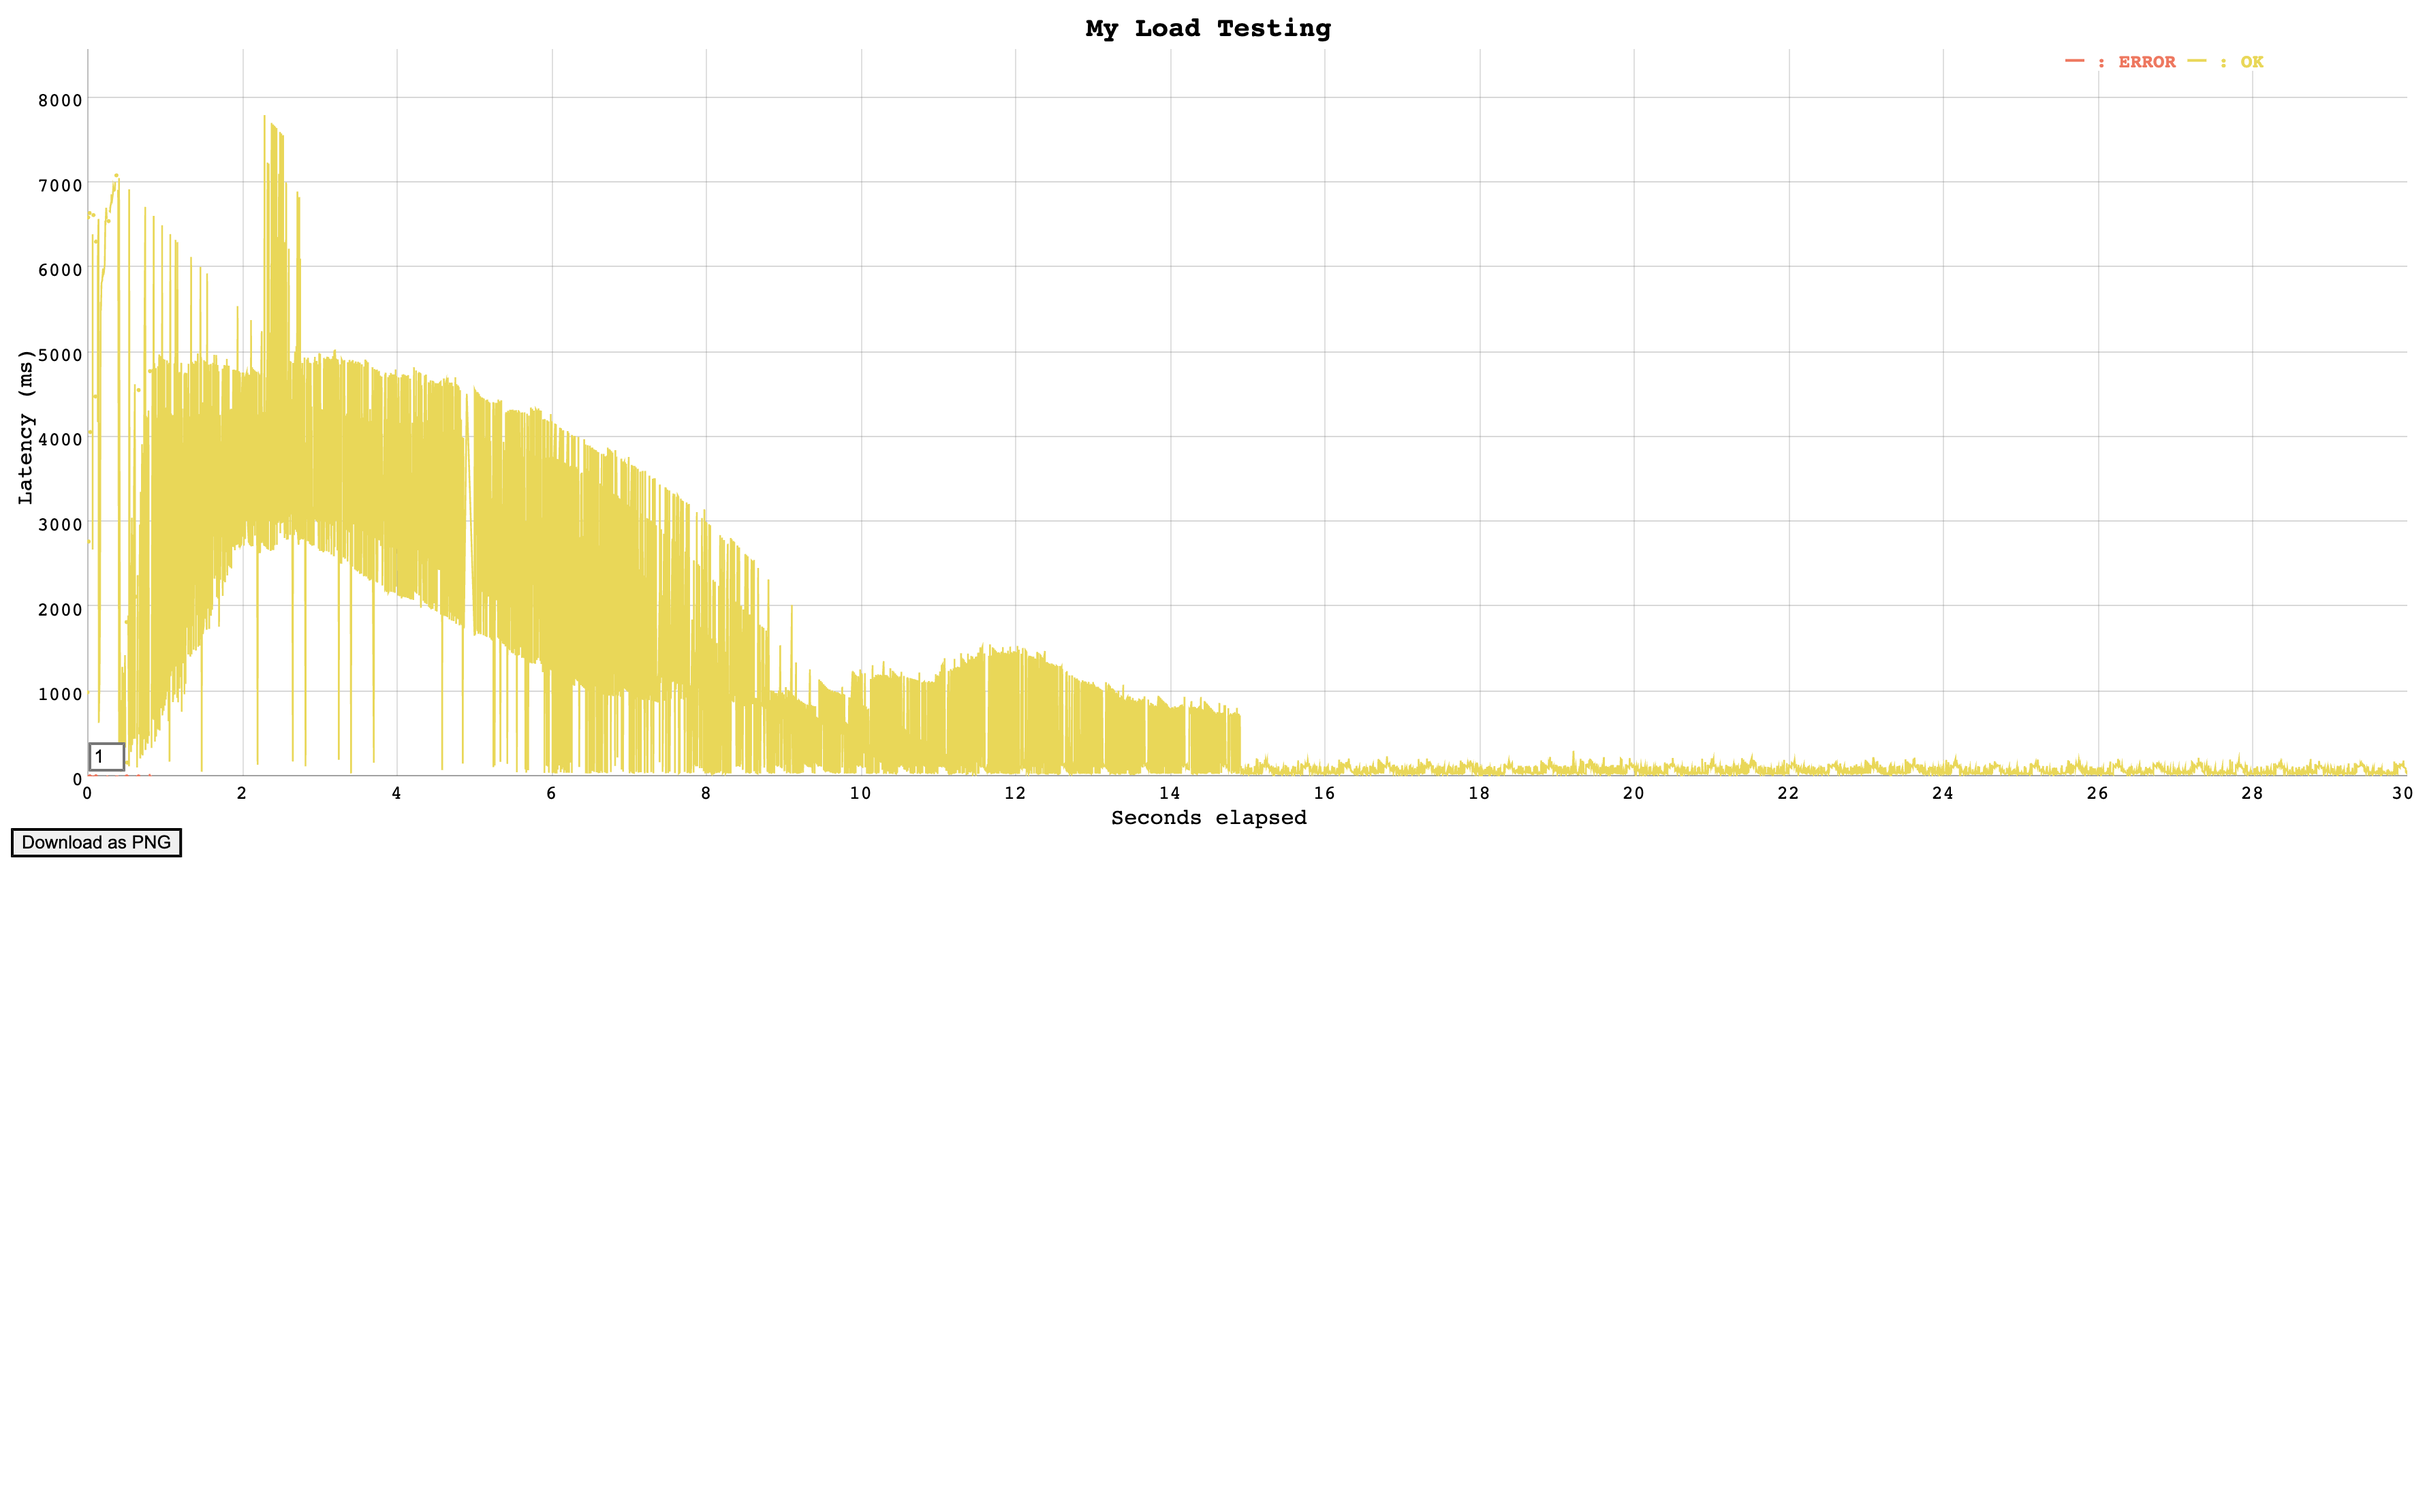
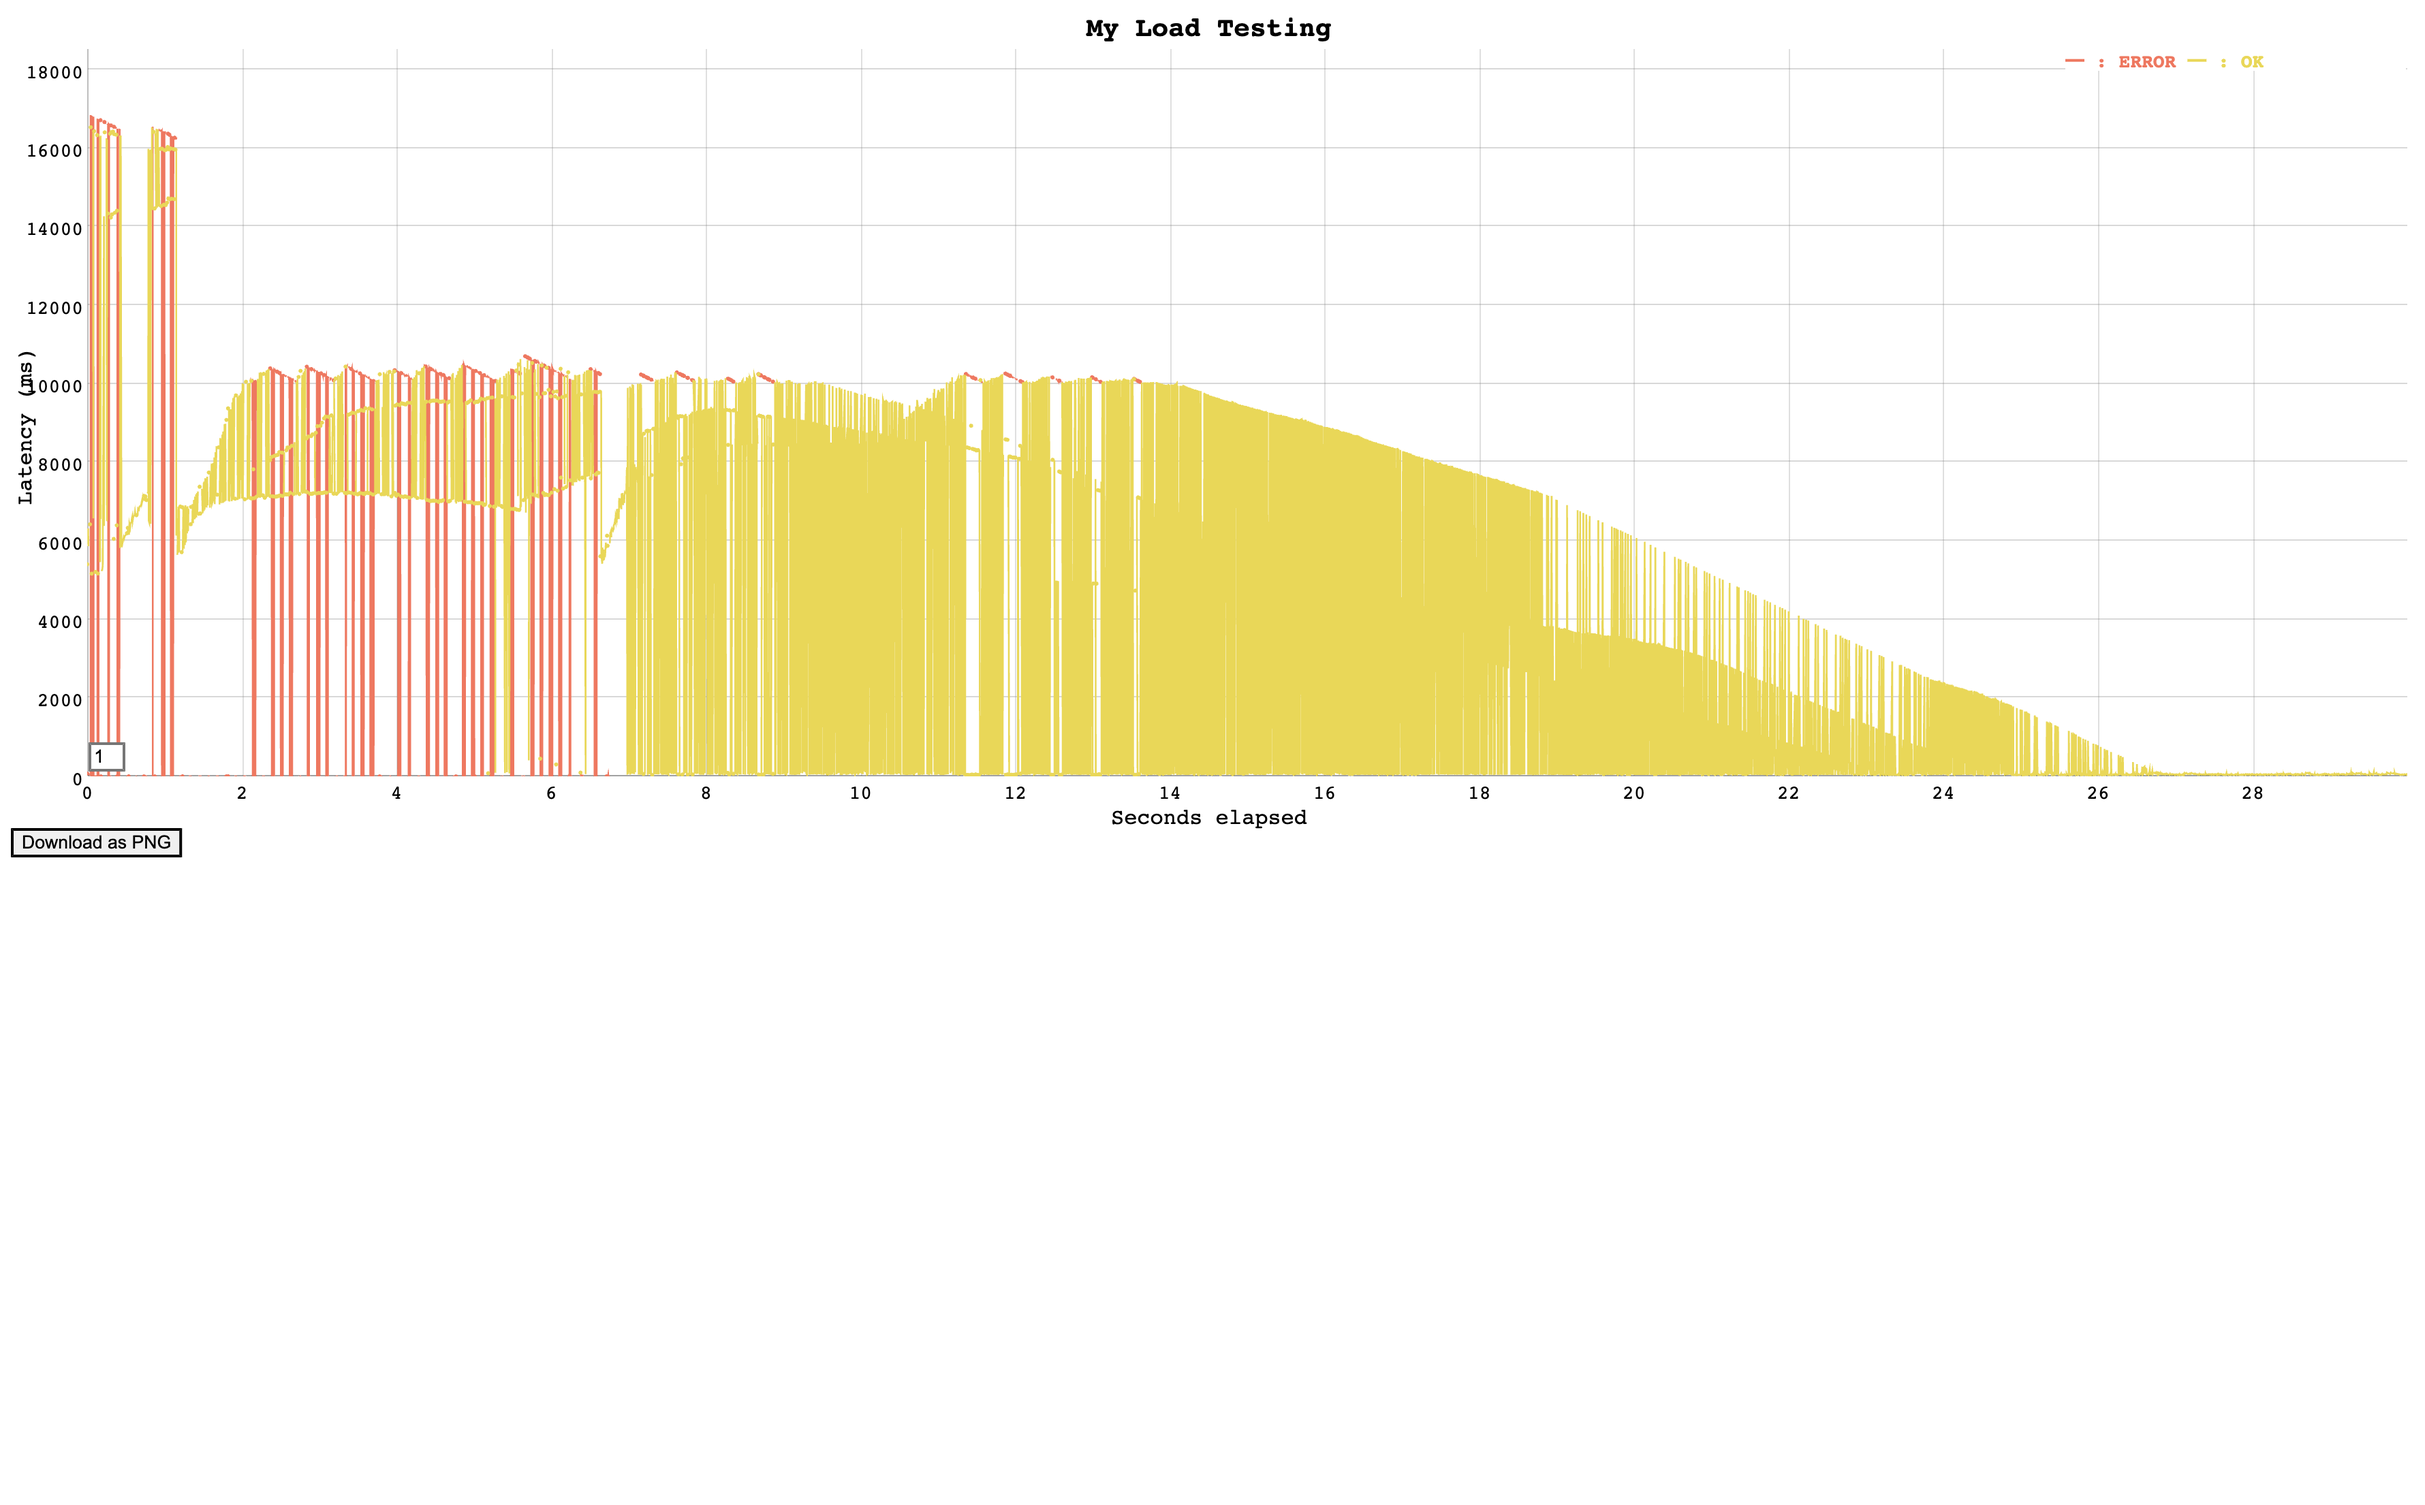
almost finish lab

Changed region(s): [[0.0, 0.0624, 0.9978, 0.5308]]

diff --git a/Labo04/003_DataStorePeformances.md b/Labo04/003_DataStorePeformances.md
@@ -47,24 +47,40 @@ Deliverables:
 - For each performance test, write the command used to generate the attack with vegeta and copy the file generated by the vegeta plot command.
 
   ```
-  //TODO command used
+  HelloWorld servlet
+  printf "GET https://20240425t154316-dot-rising-hallway-420714.ew.r.appspot.com/hello" > target.list
+  vegeta attack -duration=30s -rate=1000 -targets=target.list | tee results-hello.bin | vegeta report
+  cat results-hello.bin | vegeta plot --title="My Load Testing" > loadtest-hello.html
   ```
-
+  ![](vegeta-plot-hello.png)
   ```
-  //TODO copy/link file generated by vegeta plot command
+  Datawriter servlet
+  printf printf "GET https://20240425t154316-dot-rising-hallway-420714.ew.r.appspot.com/datastorewrite?_kind=book&author=Gwen&title=Guillaume" > target.list
+  vegeta attack -duration=30s -rate=1000 -targets=target.list | tee results-write.bin | vegeta report
+  cat results-write.bin | vegeta plot --title="My Load Testing" > loadtest-write.html
   ```
+  ![](vegeta-plot-write.png)
  
 - What response times do you observe for each Servlet?
 
   ```
-  //TODO
+  HelloWorld servlet
+  Latencies     [min, mean, 50, 90, 95, 99, max]  33.459µs, 4.107s, 2.599s, 9.956s, 10.205s, 15.799s, 16.834s
+
+  Datawriter servlet
+  Latencies     [min, mean, 50, 90, 95, 99, max]  28.542µs, 7.873s, 10.053s, 10.327s, 10.404s, 10.569s, 17.585s
+
   ```
 
 - Compare the response times shown by vegeta with the App Engine
   console. Explain the difference.
 
   ```
-  //TODO
+  Google App Engine latency
+  HelloWorld servlet -> avg 4214,174 ms (4,214s)
+  Datawriter servlet -> avg 8267.462 ms (8.267s)
+
+  As a small comparaison we could say that the avarage latency is quit similar wheter it comes from Vegeta or from Google Cloud dashboard. The main difference could be made from the fact that from Vegeta you will have to add the time for the request to travel to Google Servers.
   ```
 
 - How many resources have you used to run these tests? From the
@@ -72,8 +88,14 @@ Deliverables:
   quotas (**Daily quota** different from 0%). Explain each with a sentence.
   To get a sense of everything that is measured click on **Show resources not in use**.
 
+  ![](google-app-quotas.png)
   ```
-  //TODO
+  1. Cloud Firestore API Calls: This covers the total number of calls made to the Datastore API, including both reads and writes.
+  2. Cloud Firestore Stored Data: This indicates the amount of data currently stored in the Cloud Firestore datastore.
+  3. Data Sent to Cloud Firestore API: This measures the data flowing into the Datastore API.
+  4. Data Received from Cloud Firestore API: This measures the data flowing out of the Datastore API.
+  5. Cloud Firestore Entity Writes: This represents the number of write operations (not just requests) performed within the Datastore.
+  6. Cloud Firestore Index Write Ops: This records the number of writes made to the indexes within the Datastore storage, typically one write per indexed column per entity.
   ```
 
 - Let's suppose you become suspicious that the algorithm for the automatic scaling of
